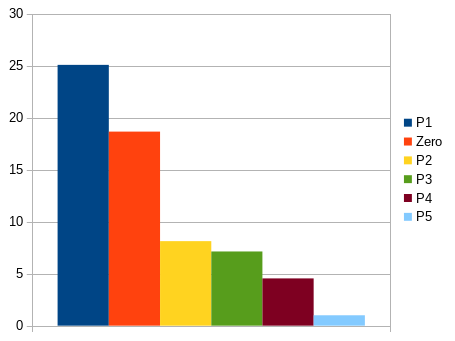
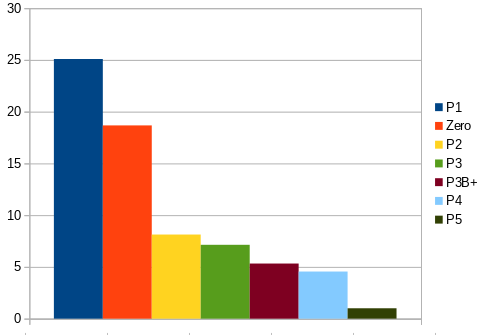
Incorporated pi3b+ into documentation

Changed region(s): [[0.0, 0.0, 0.9846, 0.9851]]

diff --git a/Doc/Overview.md b/Doc/Overview.md
@@ -55,14 +55,15 @@ I have about 14 Pi's foraging around here, which I intend to cluster.
 
 Unit tests are run regularly on the following Pi versions:
 
-| Pi   | Version         | 32/64bits | Debian distro | Memory | GPU | Model Number | Revision |
-| ---- | --------------- | --------- | ------------- | ------ | --- | ------------ | -------- |
-| Pi5  | Model B Rev 1.0 | 64        | 12 (bookworm) | 4GB    | vc7 | BCM2835      | c04170   |
-| Pi4  | Model B Rev 1.1 | 64        | 12 (bookworm) | 2GB    | vc6 | BCM2711      | b03111   |
-| Zero | W Rev 1.1       | 32        | 12 (bookworm) | 0.5GB  | vc4 | BCM2835      | 9000c1   |
-| Pi3  | Model B Rev 1.2 | 32        | 10 (buster)   | 1GB    | vc4 | BCM2837      | a02082   |
-| Pi2  | Model B Rev 1.1 | 32        | 12 (bookworm) | 1GB    | vc4 | BCM2836      | a01041   |
-| Pi1  | Model B Rev 2   | 32        | 12 (bookworm) | 0.5GB  | vc4 | BCM2835      | 000e     |
+| Pi    | Version              | 32/64bits | Debian distro | Memory | GPU | Model Number | Revision |
+| ----- | -------------------- | --------- | ------------- | ------ | --- | ------------ | -------- |
+| Pi5   | Model B Rev 1.0      | 64        | 12 (bookworm) | 4GB    | vc7 | BCM2835      | c04170   |
+| Pi4   | Model B Rev 1.1      | 64        | 12 (bookworm) | 2GB    | vc6 | BCM2711      | b03111   |
+| Pi3   | Model B Plus Rev 1.3 | 64        | 13 (trixie)   | 1GB    | vc4 | BCM2837      | a020d3   |
+| Pi3   | Model B Rev 1.2      | 32        | 10 (buster)   | 1GB    | vc4 | BCM2837      | a02082   |
+| Zero  | W Rev 1.1            | 32        | 12 (bookworm) | 0.5GB  | vc4 | BCM2835      | 9000c1   |
+| Pi2   | Model B Rev 1.1      | 32        | 12 (bookworm) | 1GB    | vc4 | BCM2836      | a01041   |
+| Pi1   | Model B Rev 2        | 32        | 12 (bookworm) | 0.5GB  | vc4 | BCM2835      | 000e     |
 
 
 The notable omissions in this list:
@@ -110,8 +111,9 @@ Here is an overview for the easily comparable stuff:
 |------------|-------------|----------------|-----------------|-------------------|------|----------|
 | **Pi1**    | 1           |  700           | 250             | vc4               | no   | yes      |
 | **Pi2**    | 4           |  900           | 250             | vc4               | no   | yes      |
-| **Pi3**    | 4           | 1200           | 300             | vc4               | yes  | yes      |
 | **Zero**   | 1           | 1000           | 300             | vc4               | yes  | **no**   |
+| **Pi3**    | 4           | 1200           | 300             | vc4               | yes  | yes      |
+| **Pi3B+**  | 4           | 1400           | 300             | vc4               | yes  | yes      |
 | **Pi4**    | 4           | 1500           | 500             | vc6               | yes  | yes      |
 | **Pi5**    | 4           | 2400           | 960             | vc7               | yes  | yes      |
 
@@ -308,9 +310,11 @@ Results per platform, time in seconds
 | Zero     | 4288     | 4099     |
 | Pi-2     | 1914     | 1798     |
 | Pi-3     | 1011     |  886     |
+| Pi-3B+   |  879     |  806     |
 | Pi-4     |  795     |  640     |
 | Pi-5     |  130     |  119     |
 
+I should update for all platforms periodically, code is changing continuously.
 
 -----
 
@@ -339,7 +343,7 @@ So, calculation:
     Pi2  : 250x12x8 =  24.0 GFLOPs
     Pi3  : 300x12x8 =  28.8 GFLOPs
     Zero : 300x12x8 =  28.8 GFLOPs
-    Pi3+ : 400x12x8 =  38.4 GFLOPs  # Do I have one to verify?
+    Pi3+ : 400x12x8 =  38.4 GFLOPs  # Could be 300; IRL it performs worse than Pi3
     Pi4  : 500x 8x8 =  32.0 GFLOPs  # Less! The improved hardware in `v3d` compensates.
     Pi5  : 960x16x8 = 122.9 GFLOPS
 

diff --git a/Doc/Profiling/mandelbrot.md b/Doc/Profiling/mandelbrot.md
@@ -17,9 +17,13 @@ The `Mandelbrot` app is a pretty good indicator of performance, because it is **
 
 ![Mandelbrot GPU performance](../images/mandelbrot_gpu.png)
 
-| P1       | Zero     | P2       | P3       | P4       | P5       |
-|----------|----------|----------|----------|----------|----------|
-| 1.523748 | 1.300062 | 1.090135 | 0.849228 | 0.699729 | 0.146146 |
+| P1       | Zero     | P2       | P3       | P3B+     | P4       | P5       |
+|----------|----------|----------|----------| -------- | ---------|----------|
+| 1.523748 | 1.300062 | 1.090135 | 0.849228 | 0.962436 | 0.699729 | 0.146146 |
+
+The time for `Pi3B+` is disappointing;
+this is the first application compiled on `Debian 13 (trixie)`; 
+perhaps there is a connection.
 
 -----
 

diff --git a/Doc/install.md b/Doc/install.md
@@ -147,7 +147,7 @@ the local `userland` instance. It gets built when compiling `userland`.
 It still needs to be installed manually (`make install` doesn't work, the target directories are wrong).
 To install, from the `V3DLib` base directory:
 
-    > cd cd extern/userland/build/lib/
+    > cd extern/userland/build/lib/
     > sudo cp libbcm_host.so /usr/lib/aarch64-linux-gnu/
 
 ## Run the unit tests
